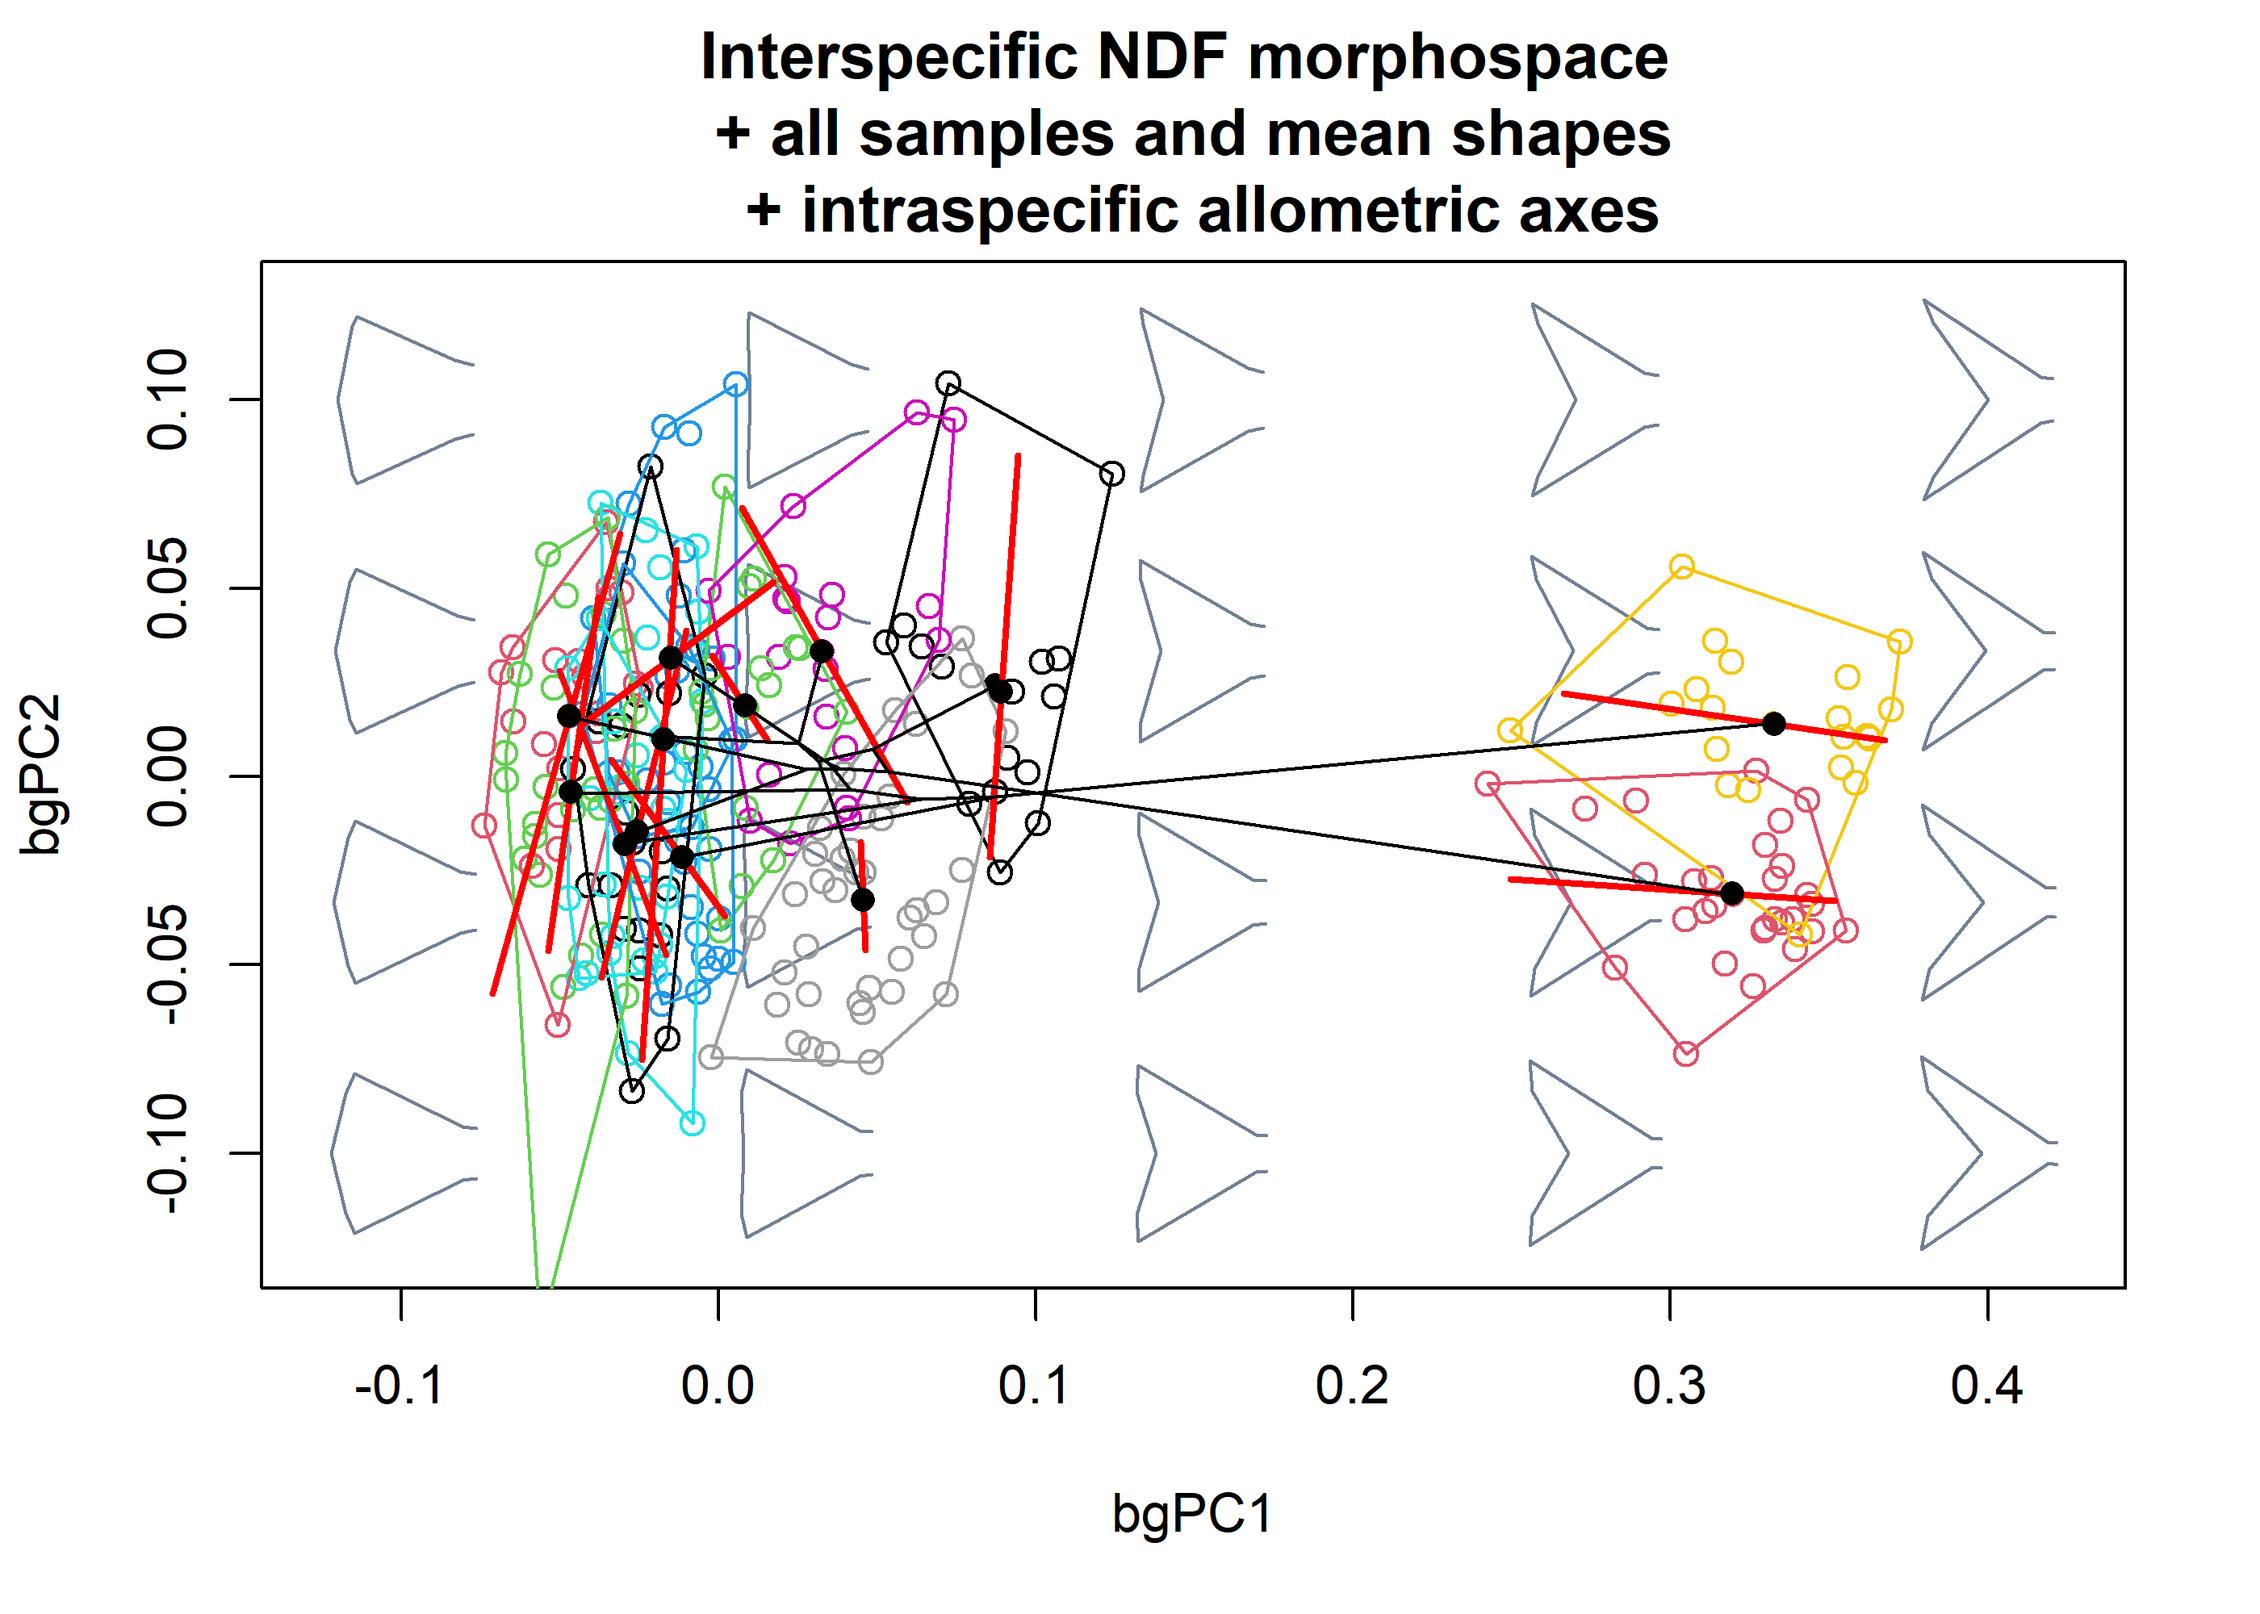
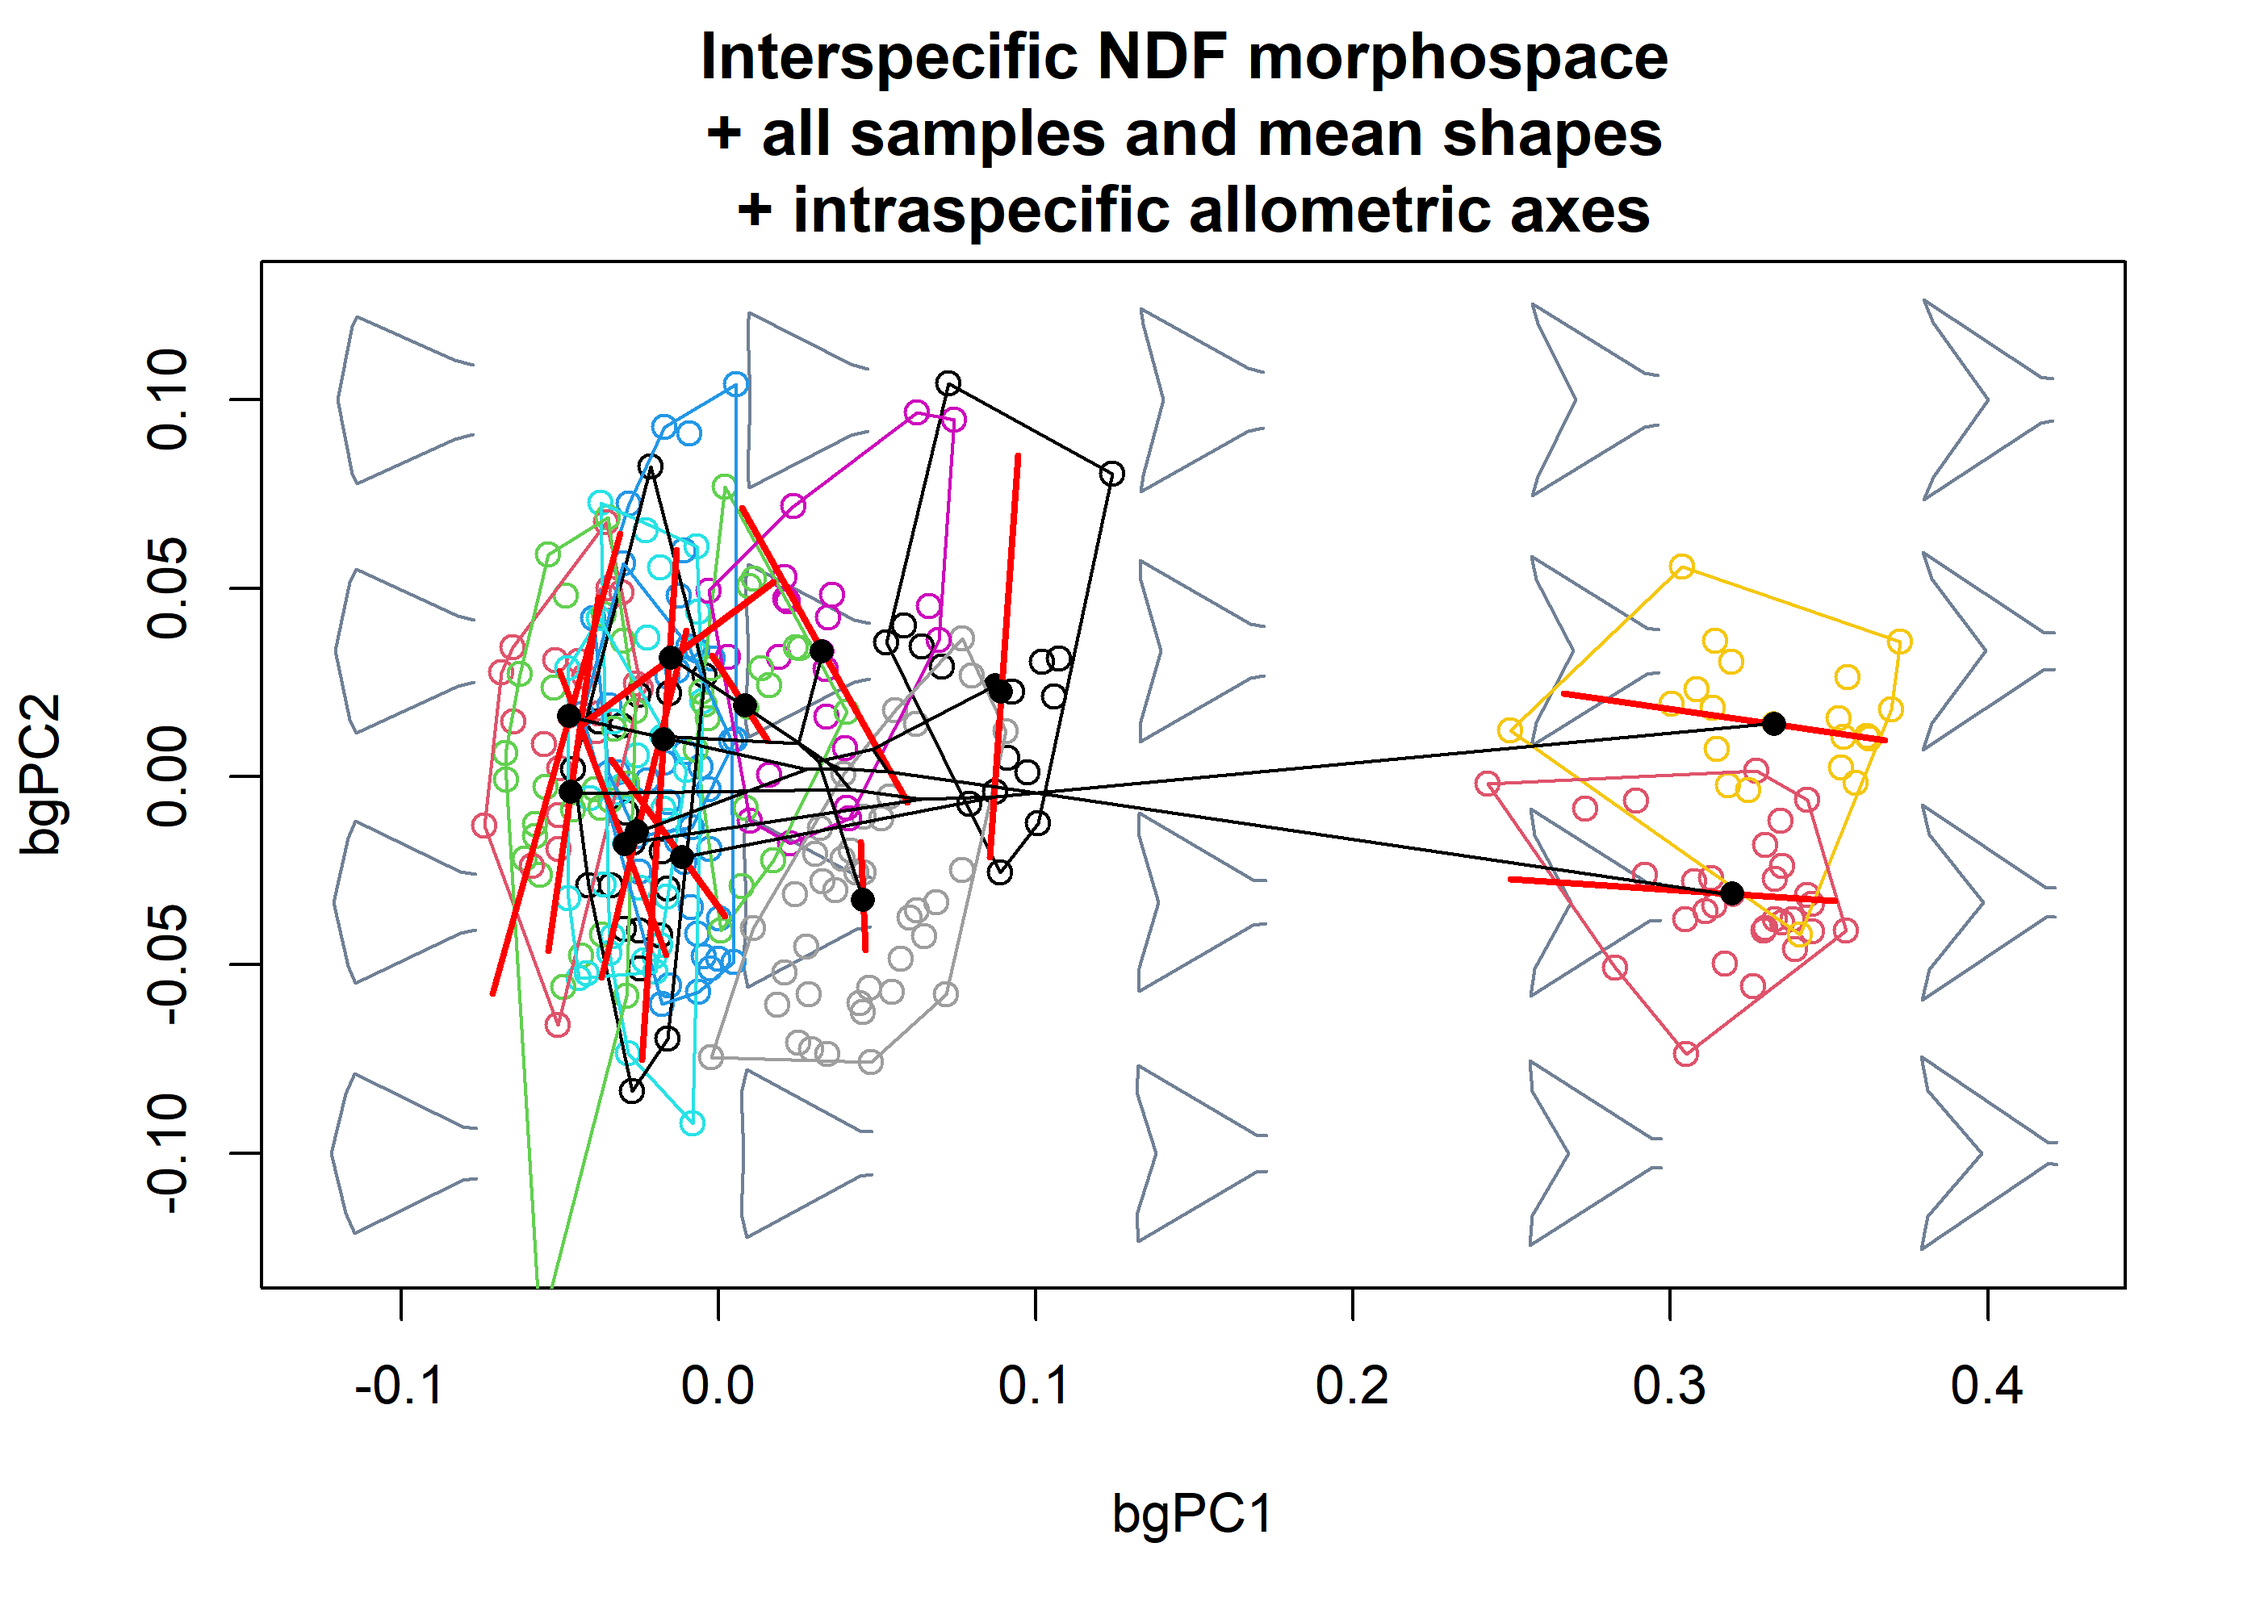
corrections

Changed region(s): [[0.3107, 0.062, 0.7457, 0.155]]

diff --git a/README.md b/README.md
@@ -114,7 +114,7 @@ title("Morphospace")
 morphospace2 <- mspace(detr_shapes, links = links, mag = 0.7, axes = c(1,2)) %>%
   proj_shapes(shapes = detr_shapes, col = species) %>%
   proj_groups(shapes = detr_shapes, groups = species)
-title("Morphospace \n + taxonomic classification")
+title("Morphospace \n+ taxonomic classification")
 ```
 
 <img src="man/figures/README-unnamed-chunk-5-2.png" width="100%" />
@@ -125,7 +125,7 @@ title("Morphospace \n + taxonomic classification")
 morphospace3 <- mspace(detr_shapes, links = links, mag = 0.7, axes = c(1,2)) %>%
   proj_consensus(shapes = detr_cons_shapes, pch = 21, bg = 1:13, cex = 1.2) %>%
   proj_groups(shapes = detr_shapes, groups = species)
-title("Morphospace \n + species mean shapes and ranges of variation")
+title("Morphospace \n+ species mean shapes and ranges of variation")
 ```
 
 <img src="man/figures/README-unnamed-chunk-5-3.png" width="100%" />
@@ -138,7 +138,7 @@ title("Morphospace \n + species mean shapes and ranges of variation")
 morphospace4 <- mspace(detr_shapes, links = links, mag = 0.7, axes = c(1,2)) %>%
   proj_consensus(shapes = detr_cons_shapes, pch = 21, bg = 1:13, cex = 1.2) %>%
   proj_phylogeny(tree = tree, pch = 16)
-title("Morphospace \n + phylogeny")
+title("Morphospace \n+ phylogeny")
 ```
 
 <img src="man/figures/README-unnamed-chunk-5-4.png" width="100%" />
@@ -176,7 +176,7 @@ mspace(detr_shapes, links = links, mag = 0.7, axes = c(1,2)) %>%
   proj_consensus(shapes = detr_cons_shapes, pch = 21, bg = 1:13, cex = 1.2) %>%
   proj_phylogeny(tree = tree, pch = 16) %>%
   proj_axes(neword = pca, ax = c(1,2), col = "black", lwd = 2, lty = 2)
-title("Morphospace \n + PCs 1 and 2 projected")
+title("Morphospace \n+ PCs 1 and 2 projected")
 ```
 
 <img src="man/figures/README-unnamed-chunk-6-1.png" width="100%" />
@@ -273,7 +273,7 @@ mspace(detr_cons_shapes, FUN = phy_prcomp, tree = tree, links = links,
   proj_groups(shapes = detr_shapes, groups = species) %>%
   proj_consensus(shapes = detr_cons_shapes, col = "black", pch = 16) %>%
   proj_phylogeny(tree = tree, pch = 16)
-title("Phylogenetic morphospace \n + samples")
+title("Phylogenetic morphospace \n+ samples")
 ```
 
 <img src="man/figures/README-unnamed-chunk-8-2.png" width="100%" />
@@ -317,7 +317,7 @@ morphospace <- mspace(detr_shapes_ndf, FUN = bg_prcomp, groups = species_ndf,
   proj_consensus(shapes = cons_shapes, col = 1:13, pch = 16) %>%
   proj_shapes(shapes = shapes, col = species) %>%
   proj_groups(shapes = shapes, groups = species)
-title("Interspecific NDF morphospace \n + all samples and mean shapes")
+title("Interspecific NDF morphospace \n+ all samples and mean shapes")
 ```
 
 <img src="man/figures/README-unnamed-chunk-9-1.png" width="100%" />
@@ -353,7 +353,7 @@ for(i in 1:nlevels(species)){
 proj_consensus(mspace = morphospace, shapes = consensus(detr_shapes, species), pch = 16, pipe = FALSE)
 proj_phylogeny(mspace = morphospace, tree = tree, pch = 16, pipe = FALSE)
 
-title("Interspecific NDF morphospace \n + all samples and mean shapes \n + intraspecific allometric axes")
+title("Interspecific NDF morphospace \n+ all samples and mean shapes \n+ intraspecific allometric axes")
 ```
 
 <img src="man/figures/README-unnamed-chunk-10-1.png" width="100%" />
@@ -533,6 +533,7 @@ refined_morphospace <- mspace(detr_shapes, mag = 0.7, axes = c(1,2), FUN = bg_pr
   proj_shapes(shapes = detr_shapes, col = species) %>%
   proj_consensus(shapes = detr_mshapes, pch=16) %>%
   proj_groups(shapes = detr_shapes, groups = species)
+title("Ignore this one, is a prerequisite for the next plot")
 # Project the axis of maximum intraspecific variation of each species (i.e. a PCA
 # of the subsamples corresponding gto each species)
 for(i in 1:nlevels(species)){
